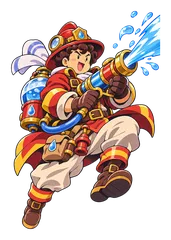
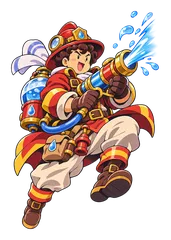
Select screen: Dad's water stream fades out instead of a hard cut; START fits without scrolling
- Dad illust: the stream cut at the image edge now tapers off (original kept in art-src)
- Poop select screen: the art box takes only the remaining height, so the
  launch button stays on screen in Safari (checked 375x548 to 390x844)

Claude-Session: https://claude.ai/code/session_011LWBdaMrjA1BLGjF6h5PmT

Changed region(s): [[0.848, 0.0292, 0.9649, 0.2625]]

diff --git a/src/sky/sky.css b/src/sky/sky.css
@@ -456,3 +456,10 @@ body:has(.sky.poop) .beta-badge, body:has(.sky.oc) .beta-badge, body:has(.sky.en
   color: #2a1206; background: linear-gradient(#ffe9a0, #ffc23c); border: 2px solid #2a1238; box-shadow: 0 2px 0 #0c0618; cursor: pointer; opacity: 0.92; }
 body:has(.sky.hub) .hub-back { display: none; }
 body:has(.hub-back) .beta-badge { display: none; }
+/* 응가판 선택 화면: 원화 칸이 남는 높이만 차지 → 화면이 짧아도(사파리 주소창·탭바) 출격 버튼까지 스크롤 없이 보임 */
+.sel.poop { justify-content: flex-start; }
+.sel.poop > .sel-head { margin-top: 0; } .sel.poop > .sel-btns { margin-bottom: 0; }
+.sel.poop .sel-main { flex: 1 1 auto; min-height: 0; align-items: stretch; }
+.sel.poop .sel-arrow { align-self: center; }
+.sel.poop .sel-art { height: auto; min-height: 140px; max-height: 470px; }
+.sel.poop > * { flex-shrink: 0; } .sel.poop > .sel-main { flex-shrink: 1; }

diff --git a/src/sky/SkyGame.tsx b/src/sky/SkyGame.tsx
@@ -571,7 +571,7 @@ function SkyGameMain({ onExit }: { onExit: () => void }) {
     };
     const step = (d: number) => pick(FAMILY[(idx + d + FAMILY.length) % FAMILY.length]);
     return (
-      <div className="sky sel">
+      <div className={`sky sel${(THEME.id as string) === 'poop' ? ' poop' : ''}`}>
         <div className="sel-pattern" aria-hidden />
         <header className="sel-head">
           <span className="sel-stage">6 STAGES · 황혼의 부유왕국 → 하늘 끝의 마왕성</span>
